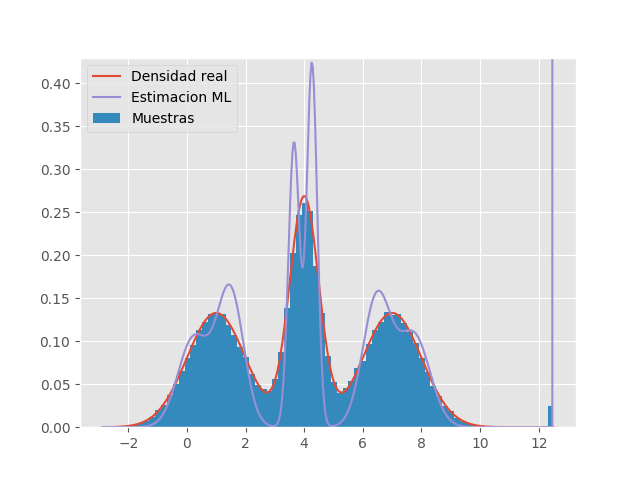
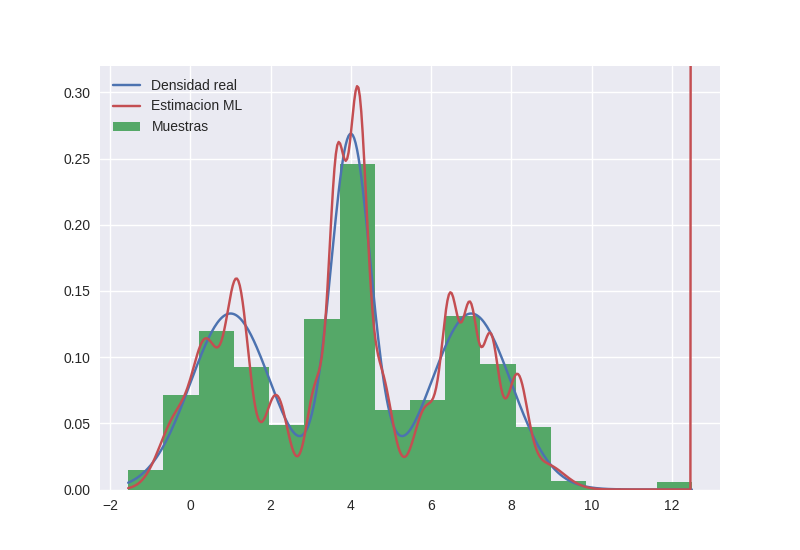
fixed images

diff --git a/ml.py b/ml.py
@@ -6,9 +6,9 @@ import scipy.stats as ss
 import matplotlib.pyplot as plt
 
 
-plt.style.use('ggplot')
+plt.style.use('seaborn')
 
-n = 100000
+n = 1000
 mu = np.array([1, 4, 7])
 sigma = np.array([1, 0.5, 1])
 K = mu.shape[0]
@@ -18,7 +18,7 @@ mixture_idx = numpy.random.choice(
 samples = numpy.fromiter(
     (ss.norm.rvs(mu[i], sigma[i]) for i in mixture_idx),
     dtype=np.float64)
-samples = np.append(samples,[12.5]* 500)
+samples = np.append(samples,[12.5]* int(n/200))
 
 x_axis = np.linspace(samples.min(), samples.max(), 400)
 y_axis = np.zeros_like(x_axis)
@@ -26,27 +26,31 @@ y_axis = np.zeros_like(x_axis)
 for l, s, w in zip(mu, sigma, weights):
     y_axis += ss.norm.pdf(x_axis, loc=l, scale=s) * w
 
+K = 15
+
 y_axis_gmm = np.zeros_like(x_axis)
-gmm = GaussianMixture(7)
+gmm = GaussianMixture(K)
 gmm.fit(samples.reshape(-1,1))
 for l, s, w in zip(gmm.means_.flatten(), gmm.covariances_.flatten(), gmm.weights_):
-    y_axis_gmm += ss.norm.pdf(x_axis, loc=l, scale=s) * w
+    y_axis_gmm += ss.norm.pdf(x_axis, loc=l, scale=np.sqrt(s)) * w
 
 y_axis_bgmm = np.zeros_like(x_axis)
-bgmm = BayesianGaussianMixture(7)
+bgmm = BayesianGaussianMixture(K)
 bgmm.fit(samples.reshape(-1,1))
 y_axis_bgmm = np.exp(bgmm.score_samples(x_axis.reshape(-1,1)))
 # for l, s, w in zip(bgmm.means_.flatten(), bgmm.covariances_.flatten(), bgmm.weights_):
 #     y_axis_bgmm += ss.norm.pdf(x_axis, loc=l, scale=s) * w
 
 plt.plot(x_axis, y_axis, label='Densidad real')
-plt.hist(samples, normed=True, bins="fd", label='Muestras')
+plt.hist(samples, normed=True, bins="fd", alpha=1, label='Muestras')
+# plt.plot(samples,np.zeros(len(samples)), marker='.', label='Muestras')
 # plt.plot(x_axis, y_axis_gmm, label='Estimacion ML')
 plt.plot(x_axis, y_axis_bgmm, label='Estimacion bayesiana')
 # plt.xlabel("x")
 # plt.ylabel("f(x)")
 # plt.xlim([-2, 10])
-# plt.ylim([0, 0.43])
+plt.ylim([0, 0.32])
 plt.legend()
 plt.savefig('figures/bayes_soluciones')
+# plt.savefig('figures/ml_problemas')
 plt.show()
